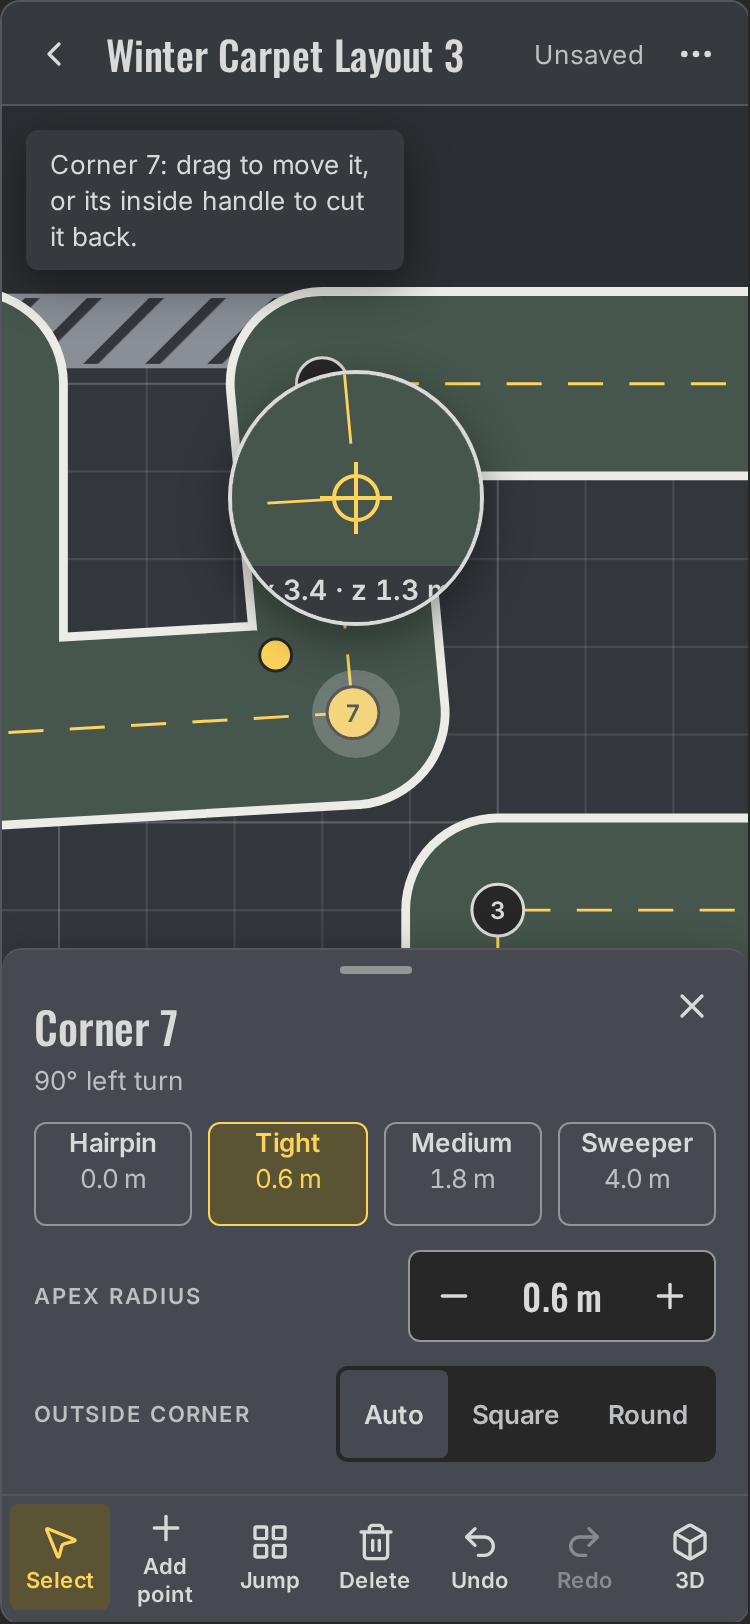
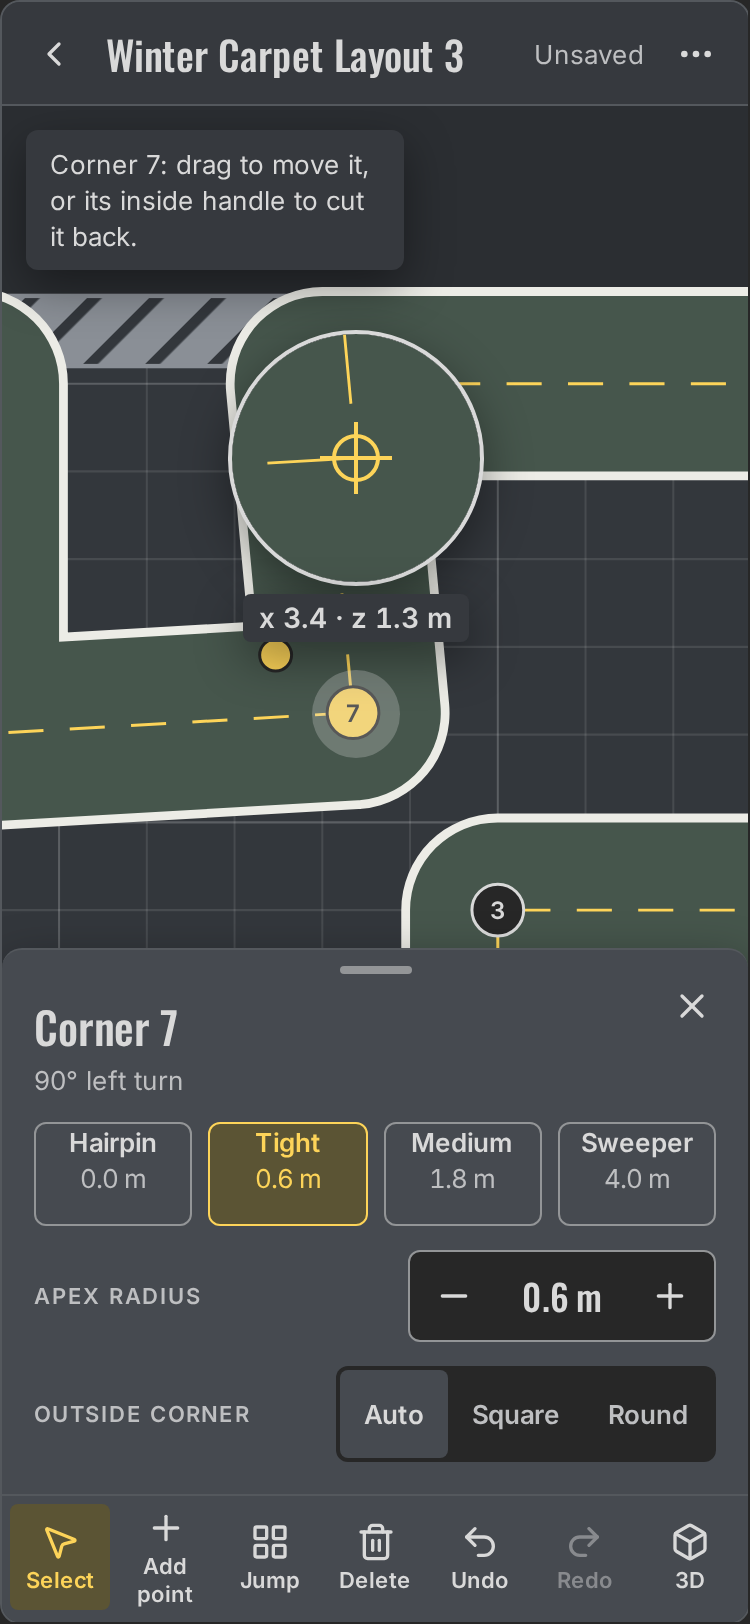
Phone designer design (#117): the loupe's readout as a chip under it

Changed region(s): [[0.3067, 0.1847, 0.644, 0.431]]

diff --git a/docs/design/phone/phone.css b/docs/design/phone/phone.css
@@ -91,13 +91,13 @@ button:disabled { opacity: 0.45; cursor: default; }
 
 /* the finger, and the loupe above it while dragging */
 .finger { position: absolute; z-index: 6; width: 44px; height: 44px; border-radius: 50%; background: var(--text); opacity: 0.28; pointer-events: none; }
-.loupe { position: absolute; z-index: 6; width: 128px; height: 128px; border-radius: 50%; overflow: hidden; border: 2px solid var(--text); box-shadow: var(--shadow-float); background: var(--plan-floor); pointer-events: none; }
-.loupe svg.plan { position: absolute; inset: 0; width: 100%; height: 100%; }
+.loupe { position: absolute; z-index: 6; width: 128px; height: 128px; border-radius: 50%; border: 2px solid var(--text); box-shadow: var(--shadow-float); background: var(--plan-floor); pointer-events: none; }
+.loupe svg.plan { position: absolute; inset: 0; width: 100%; height: 100%; border-radius: 50%; clip-path: circle(50%); }
 .loupe-cross { position: absolute; left: 50%; top: 50%; width: 24px; height: 24px; margin: -12px; border-radius: 50%; border: 2px solid var(--accent); }
 .loupe-cross::before, .loupe-cross::after { content: ""; position: absolute; background: var(--accent); }
 .loupe-cross::before { left: 50%; top: -8px; bottom: -8px; width: 2px; margin-left: -1px; }
 .loupe-cross::after { top: 50%; left: -8px; right: -8px; height: 2px; margin-top: -1px; }
-.loupe-read { position: absolute; left: 0; right: 0; bottom: 0; padding: 2px 0 6px; text-align: center; background: var(--header); font: 600 14px/20px var(--font-sans); font-variant-numeric: tabular-nums; }
+.loupe-read { position: absolute; left: 50%; top: 100%; transform: translateX(-50%); margin-top: 6px; padding: 2px 8px; border-radius: var(--radius-sm); white-space: nowrap; text-align: center; background: var(--header); box-shadow: var(--shadow-float); font: 600 14px/20px var(--font-sans); font-variant-numeric: tabular-nums; }
 
 /* the bottom toolbar: every tool a 44 px target with a label, within thumb reach */
 .toolbar { flex: none; height: 64px; display: flex; align-items: stretch; gap: 2px; padding: 4px var(--space-1) 6px; background: var(--bg-raised); border-top: 1px solid var(--line); }

diff --git a/docs/design/phone/02-selected-point.html b/docs/design/phone/02-selected-point.html
@@ -37,7 +37,7 @@
     <div class="hint" aria-live="polite">Corner 7: drag to move it, or its inside handle to cut it back.</div>
     <!-- the loupe: a magnified copy of the plan round the finger, drawn while a drag is going on; the crosshair is the
          point being moved, read against the lane lines -->
-    <div class="loupe" style="left: 113px; top: 132px" aria-hidden="true">
+    <div class="loupe" style="left: 113px; top: 112px" aria-hidden="true">
       <svg class="plan" viewBox="2.744 -1.856 1.212 1.212" preserveAspectRatio="xMidYMid slice" role="img" aria-label="Plan being edited" xmlns="http://www.w3.org/2000/svg">
 <defs><pattern id="chequer" width="0.3" height="0.3" patternUnits="userSpaceOnUse"><rect width="0.15" height="0.15" fill="var(--plan-pipe)"/><rect x="0.15" y="0.15" width="0.15" height="0.15" fill="var(--plan-pipe)"/><rect x="0.15" width="0.15" height="0.15" fill="var(--plan-floor)"/><rect y="0.15" width="0.15" height="0.15" fill="var(--plan-floor)"/></pattern>
 <pattern id="hatch" width="0.5" height="0.5" patternUnits="userSpaceOnUse" patternTransform="rotate(45)"><rect width="0.5" height="0.5" fill="var(--plan-rostrum)"/><rect width="0.12" height="0.5" fill="var(--plan-area)"/></pattern></defs>
